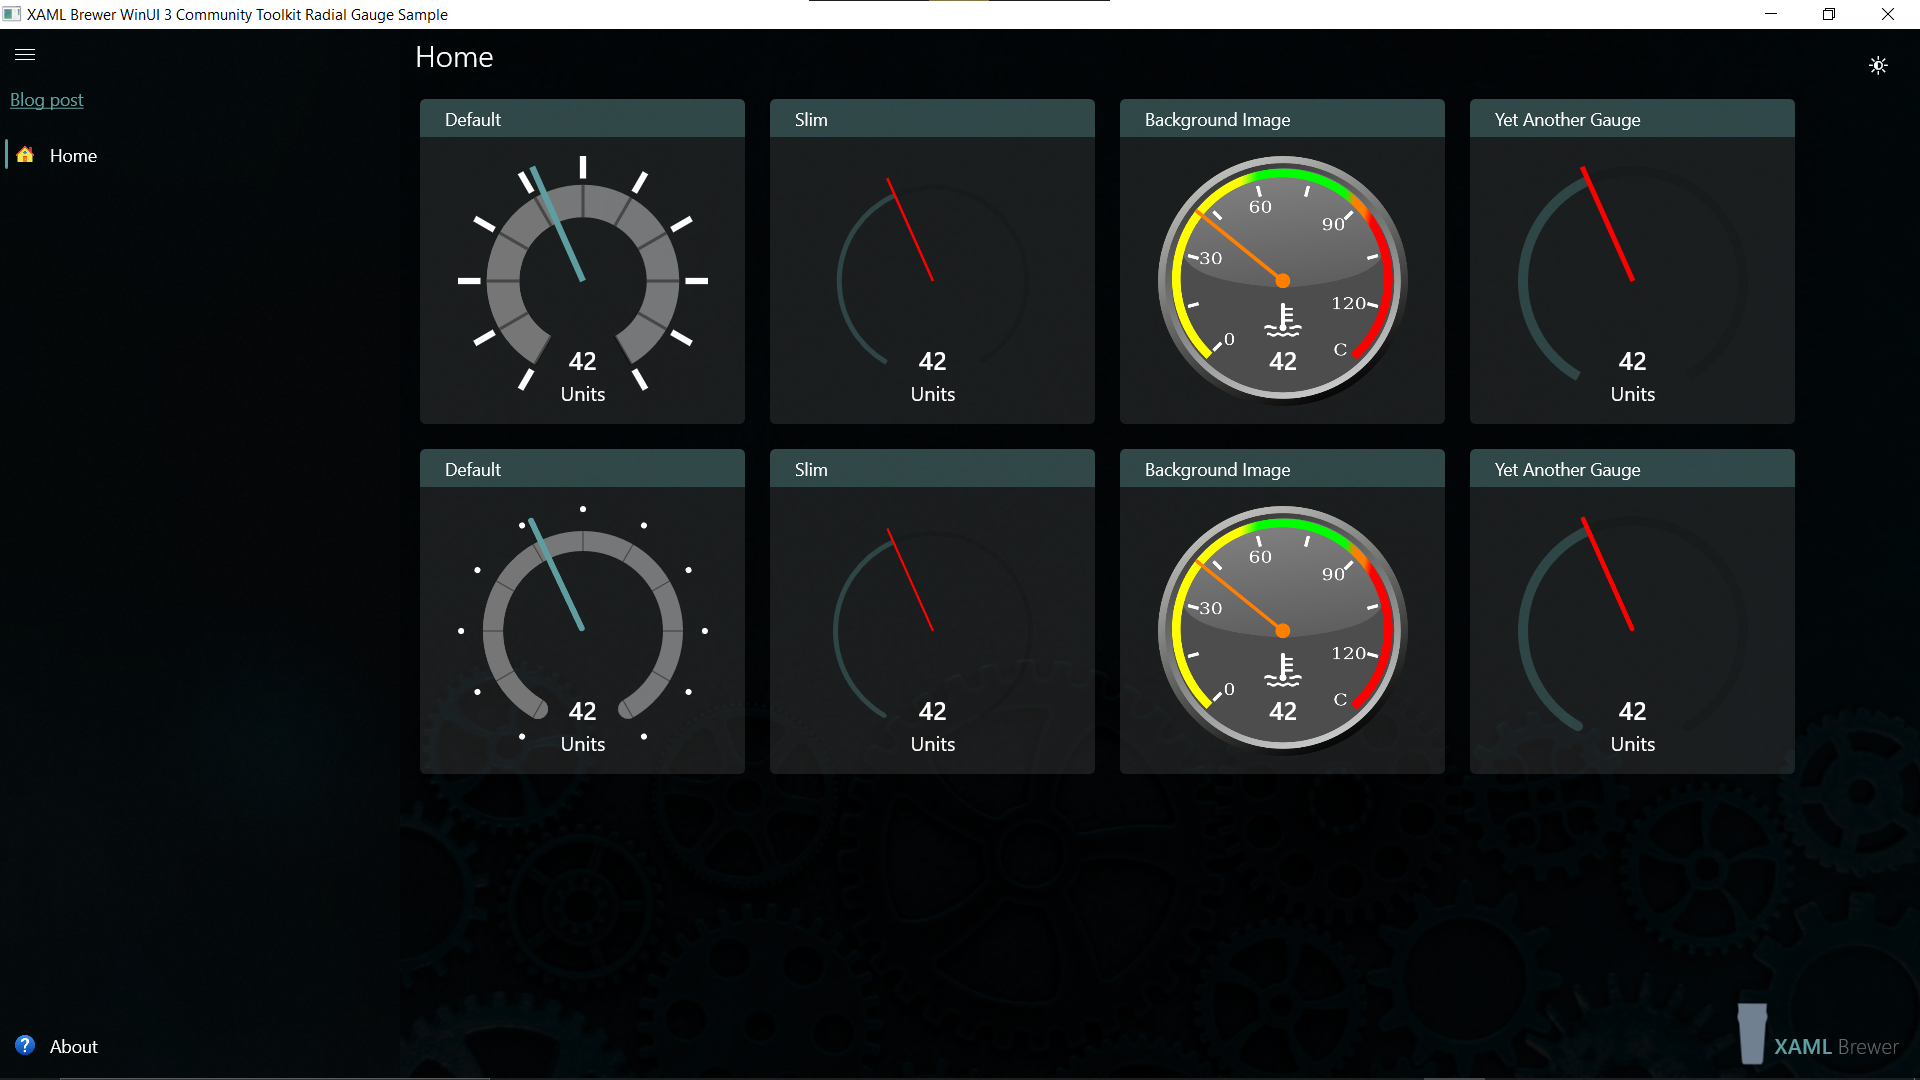
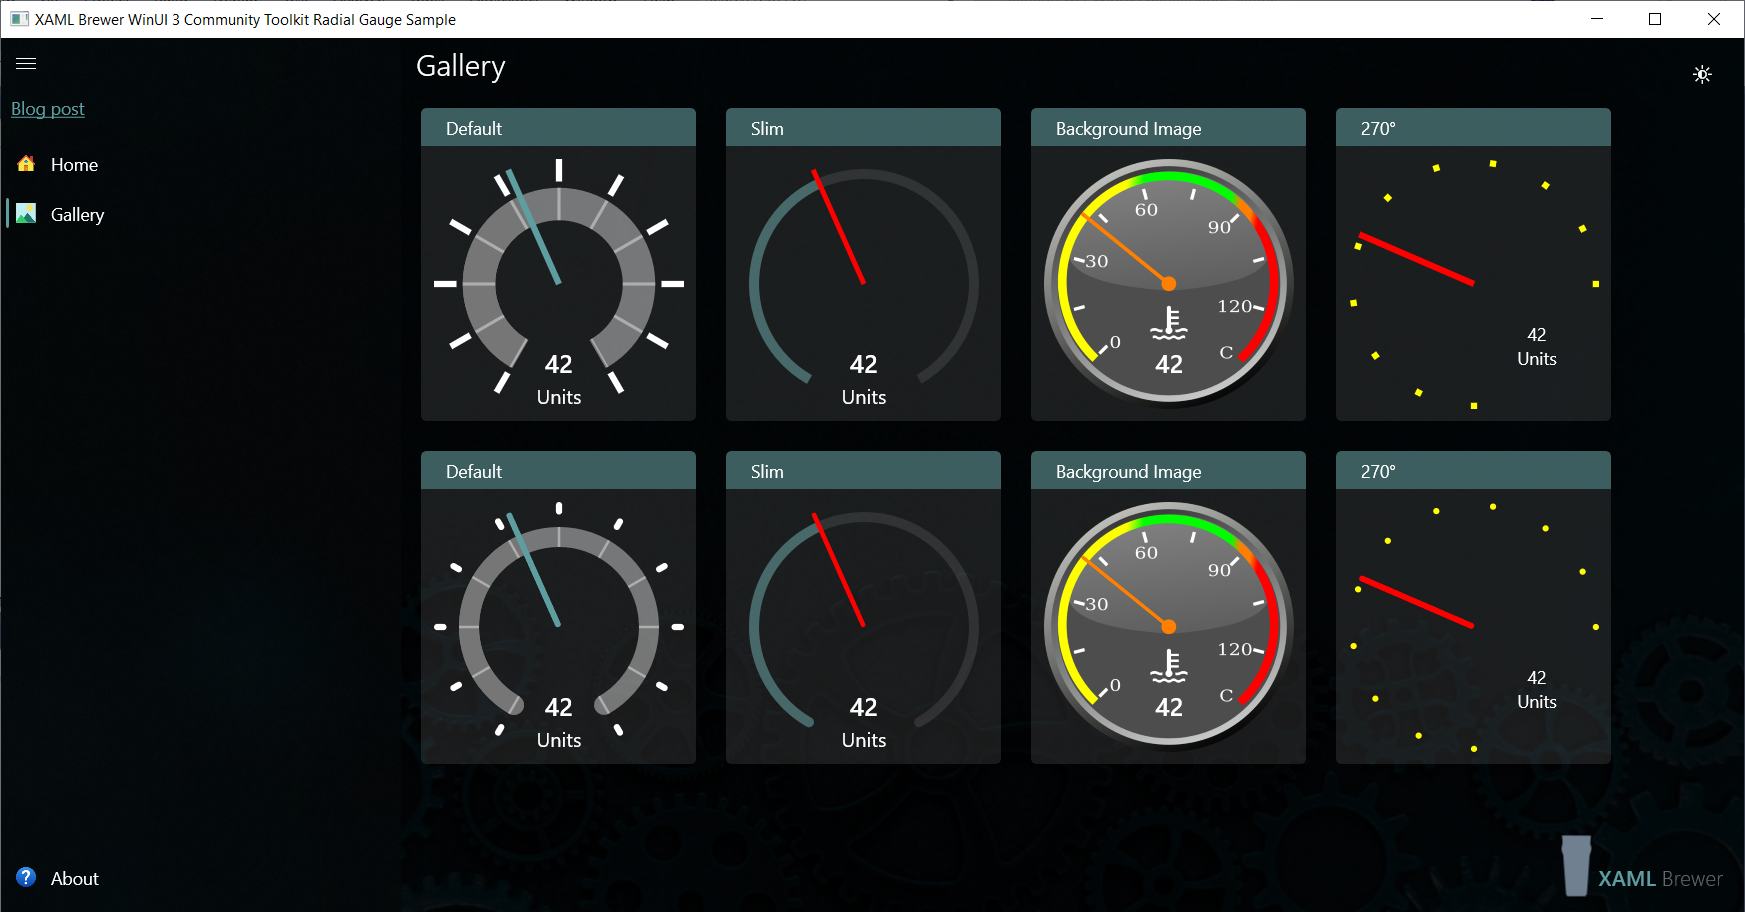
Gallery

diff --git a/XamlBrewer.WinUI3.RadialGaugeSample/XamlBrewer.WinUI3.RadialGaugeSample/Views/GalleryPage.xaml b/XamlBrewer.WinUI3.RadialGaugeSample/XamlBrewer.WinUI3.RadialGaugeSample/Views/GalleryPage.xaml
@@ -73,9 +73,9 @@
                                      TrailBrush="{StaticResource SystemAccentColorBrush}"
                                      ScaleTickBrush="Transparent"
                                      ScaleBrush="{ThemeResource TenPercentContrastBrush}"
-                                     NeedleWidth="2"
-                                     NeedleLength="90"
-                                     ScaleWidth="4"
+                                     NeedleWidth="4"
+                                     ScaleWidth="8"
+                                     ScalePadding="8"
                                      VerticalAlignment="Center"
                                      HorizontalAlignment="Center"
                                      Grid.Row="1" />
@@ -126,7 +126,7 @@
                 </Grid>
             </Grid>
 
-            <!-- ... -->
+            <!-- 270° -->
             <Grid Padding="0 0 20 20">
                 <Grid.RowDefinitions>
                     <RowDefinition Height="auto" />
@@ -142,27 +142,44 @@
                         Height="30"
                         Background="{StaticResource SystemAccentColorBrush}">
                     <TextBlock VerticalAlignment="Center"
-                               Padding="20 4">Yet Another Gauge</TextBlock>
+                               Padding="20 4">270°</TextBlock>
                 </Border>
-                <toolkit:RadialGauge Height="200"
+                <toolkit:RadialGauge x:Name="Gauge270"
+                                     Height="200"
                                      Width="200"
                                      Margin="10"
                                      NeedleBrush="Red"
+                                     TrailBrush="Transparent"
+                                     TickBrush="Yellow"
                                      Minimum="0"
                                      Maximum="100"
+                                     MinAngle="180"
+                                     MaxAngle="90"
+                                     ScaleTickBrush="Transparent"
+                                     ScaleBrush="Transparent"
+                                     TickLength="5"
+                                     Foreground="Transparent"
                                      Value="42"
                                      Unit="Units"
                                      IsInteractive="True"
-                                     TickBrush="Transparent"
-                                     TrailBrush="{StaticResource SystemAccentColorBrush}"
-                                     ScaleTickBrush="Transparent"
-                                     ScaleBrush="{ThemeResource TenPercentContrastBrush}"
-                                     NeedleWidth="4"
-                                     ScaleWidth="8"
-                                     ScalePadding="8"
                                      VerticalAlignment="Center"
                                      HorizontalAlignment="Center"
                                      Grid.Row="1" />
+                <Border Height="100"
+                        Width="100"
+                        Margin="10"
+                        VerticalAlignment="Bottom"
+                        HorizontalAlignment="Right"
+                        Grid.Row="1">
+                    <TextBlock HorizontalAlignment="Center"
+                               HorizontalTextAlignment="Center"
+                               VerticalAlignment="Center">
+                        <Run Text="{x:Bind Gauge270.Value.ToString('N0', x:Null), Mode=OneWay}" />
+                        <LineBreak />
+                        <Run Text="{x:Bind Gauge270.Unit}" />
+                    </TextBlock>
+                </Border>
+
             </Grid>
 
             <!-- Default Interactive (Less Windows 8) -->
@@ -226,9 +243,9 @@
                                       TrailBrush="{StaticResource SystemAccentColorBrush}"
                                       ScaleTickBrush="Transparent"
                                       ScaleBrush="{ThemeResource TenPercentContrastBrush}"
-                                      NeedleWidth="2"
-                                      NeedleLength="90"
-                                      ScaleWidth="4"
+                                      NeedleWidth="4"
+                                      ScalePadding="8"
+                                      ScaleWidth="8"
                                       VerticalAlignment="Center"
                                       HorizontalAlignment="Center"
                                       Grid.Row="1" />
@@ -279,7 +296,7 @@
                 </Grid>
             </Grid>
 
-            <!-- ... -->
+            <!-- 270° -->
             <Grid Padding="0 0 20 20">
                 <Grid.RowDefinitions>
                     <RowDefinition Height="auto" />
@@ -295,24 +312,41 @@
                         Height="30"
                         Background="{StaticResource SystemAccentColorBrush}">
                     <TextBlock VerticalAlignment="Center"
-                               Padding="20 4">Yet Another Gauge</TextBlock>
+                               Padding="20 4">270°</TextBlock>
                 </Border>
-                <toolkit:RadialGauge2 Height="200"
+                <Border Height="100"
+                        Width="100"
+                        Margin="10"
+                        VerticalAlignment="Bottom"
+                        HorizontalAlignment="Right"
+                        Grid.Row="1">
+                    <TextBlock HorizontalAlignment="Center"
+                               HorizontalTextAlignment="Center"
+                               VerticalAlignment="Center">
+                        <Run Text="{x:Bind Gauge270_2.Value.ToString('N0', x:Null), Mode=OneWay}" />
+                        <LineBreak />
+                        <Run Text="{x:Bind Gauge270_2.Unit}" />
+                    </TextBlock>
+                              
+                </Border>
+                <toolkit:RadialGauge2 x:Name="Gauge270_2"
+                                      Height="200"
                                       Width="200"
                                       Margin="10"
                                       NeedleBrush="Red"
+                                      TrailBrush="Transparent"
+                                      TickBrush="Yellow"
                                       Minimum="0"
                                       Maximum="100"
+                                      MinAngle="180"
+                                      MaxAngle="90"
+                                      ScaleTickBrush="Transparent"
+                                      ScaleBrush="Transparent"
+                                      TickLength="5"
+                                      Foreground="Transparent"
                                       Value="42"
                                       Unit="Units"
                                       IsInteractive="True"
-                                      TickBrush="Transparent"
-                                      TrailBrush="{StaticResource SystemAccentColorBrush}"
-                                      ScaleTickBrush="Transparent"
-                                      ScaleBrush="{ThemeResource TenPercentContrastBrush}"
-                                      NeedleWidth="4"
-                                      ScalePadding="8"
-                                      ScaleWidth="8"
                                       VerticalAlignment="Center"
                                       HorizontalAlignment="Center"
                                       Grid.Row="1" />

diff --git a/XamlBrewer.WinUI3.RadialGaugeSample/XamlBrewer.WinUI3.RadialGaugeSample/Controls/RadialGauge2/RadialGauge2.cs b/XamlBrewer.WinUI3.RadialGaugeSample/XamlBrewer.WinUI3.RadialGaugeSample/Controls/RadialGauge2/RadialGauge2.cs
@@ -119,7 +119,7 @@ namespace Microsoft.Toolkit.Uwp.UI.Controls
         /// Identifies the ScaleTickWidth dependency property.
         /// </summary>
         public static readonly DependencyProperty ScaleTickWidthProperty =
-            DependencyProperty.Register(nameof(ScaleTickWidth), typeof(double), typeof(RadialGauge2), new PropertyMetadata(1d, OnFaceChanged));
+            DependencyProperty.Register(nameof(ScaleTickWidth), typeof(double), typeof(RadialGauge2), new PropertyMetadata(2d, OnFaceChanged));
 
         /// <summary>
         /// Identifies the TickWidth dependency property.
@@ -159,14 +159,6 @@ namespace Microsoft.Toolkit.Uwp.UI.Controls
 
         // For convenience.
         private const double Degrees2Radians = Math.PI / 180;
-
-        // High-contrast accessibility
-        private SolidColorBrush _needleBrush;
-        private Brush _trailBrush;
-        private Brush _scaleBrush;
-        private SolidColorBrush _scaleTickBrush;
-        private SolidColorBrush _tickBrush;
-        private Brush _foreground;
 
         private double _normalizedMinAngle;
         private double _normalizedMaxAngle;
@@ -425,21 +417,12 @@ namespace Microsoft.Toolkit.Uwp.UI.Controls
         /// </summary>
         protected override void OnApplyTemplate()
         {
-            // Remember local brushes.
-            _needleBrush = ReadLocalValue(NeedleBrushProperty) as SolidColorBrush;
-            _trailBrush = ReadLocalValue(TrailBrushProperty) as SolidColorBrush;
-            _scaleBrush = ReadLocalValue(ScaleBrushProperty) as SolidColorBrush;
-            _scaleTickBrush = ReadLocalValue(ScaleTickBrushProperty) as SolidColorBrush;
-            _tickBrush = ReadLocalValue(TickBrushProperty) as SolidColorBrush;
-            _scaleTickBrush = ReadLocalValue(ScaleTickBrushProperty) as SolidColorBrush;
-            _foreground = ReadLocalValue(ForegroundProperty) as SolidColorBrush;
-
             // Register event handlers.
             PointerReleased += RadialGauge_PointerReleased;
             KeyDown += RadialGauge_KeyDown;
 
             // Apply color scheme.
-            OnColorsChanged();
+            OnScaleChanged(this);
 
             base.OnApplyTemplate();
         }
@@ -684,49 +667,6 @@ namespace Microsoft.Toolkit.Uwp.UI.Controls
             radialGauge._root.Children.InsertAtTop(radialGauge._needle);
 
             OnValueChanged(radialGauge);
-        }
-
-        private void OnColorsChanged()
-        {
-            //////if (ThemeListener.IsHighContrast)
-            //////{
-            //////    // Apply High Contrast Theme.
-            //////    ClearBrush(_needleBrush, NeedleBrushProperty);
-            //////    ClearBrush(_trailBrush, TrailBrushProperty);
-            //////    ClearBrush(_scaleBrush, ScaleBrushProperty);
-            //////    ClearBrush(_scaleTickBrush, ScaleTickBrushProperty);
-            //////    ClearBrush(_tickBrush, TickBrushProperty);
-            //////    ClearBrush(_foreground, ForegroundProperty);
-            //////}
-            //////else
-            //////{
-            // Apply User Defined or Default Theme.
-            _needleBrush = ReadLocalValue(NeedleBrushProperty) as SolidColorBrush;
-            _trailBrush = ReadLocalValue(TrailBrushProperty) as SolidColorBrush;
-            _scaleBrush = ReadLocalValue(ScaleBrushProperty) as SolidColorBrush;
-            _scaleTickBrush = ReadLocalValue(ScaleTickBrushProperty) as SolidColorBrush;
-            _tickBrush = ReadLocalValue(TickBrushProperty) as SolidColorBrush;
-            _scaleTickBrush = ReadLocalValue(ScaleTickBrushProperty) as SolidColorBrush;
-            _foreground = ReadLocalValue(ForegroundProperty) as SolidColorBrush;
-            //////}
-
-            OnScaleChanged(this);
-        }
-
-        private void ClearBrush(Brush brush, DependencyProperty prop)
-        {
-            if (brush != null)
-            {
-                ClearValue(prop);
-            }
-        }
-
-        private void RestoreBrush(Brush source, DependencyProperty prop)
-        {
-            if (source != null)
-            {
-                SetValue(prop, source);
-            }
         }
 
         private void RadialGauge_ManipulationDelta(object sender, ManipulationDeltaRoutedEventArgs e)
